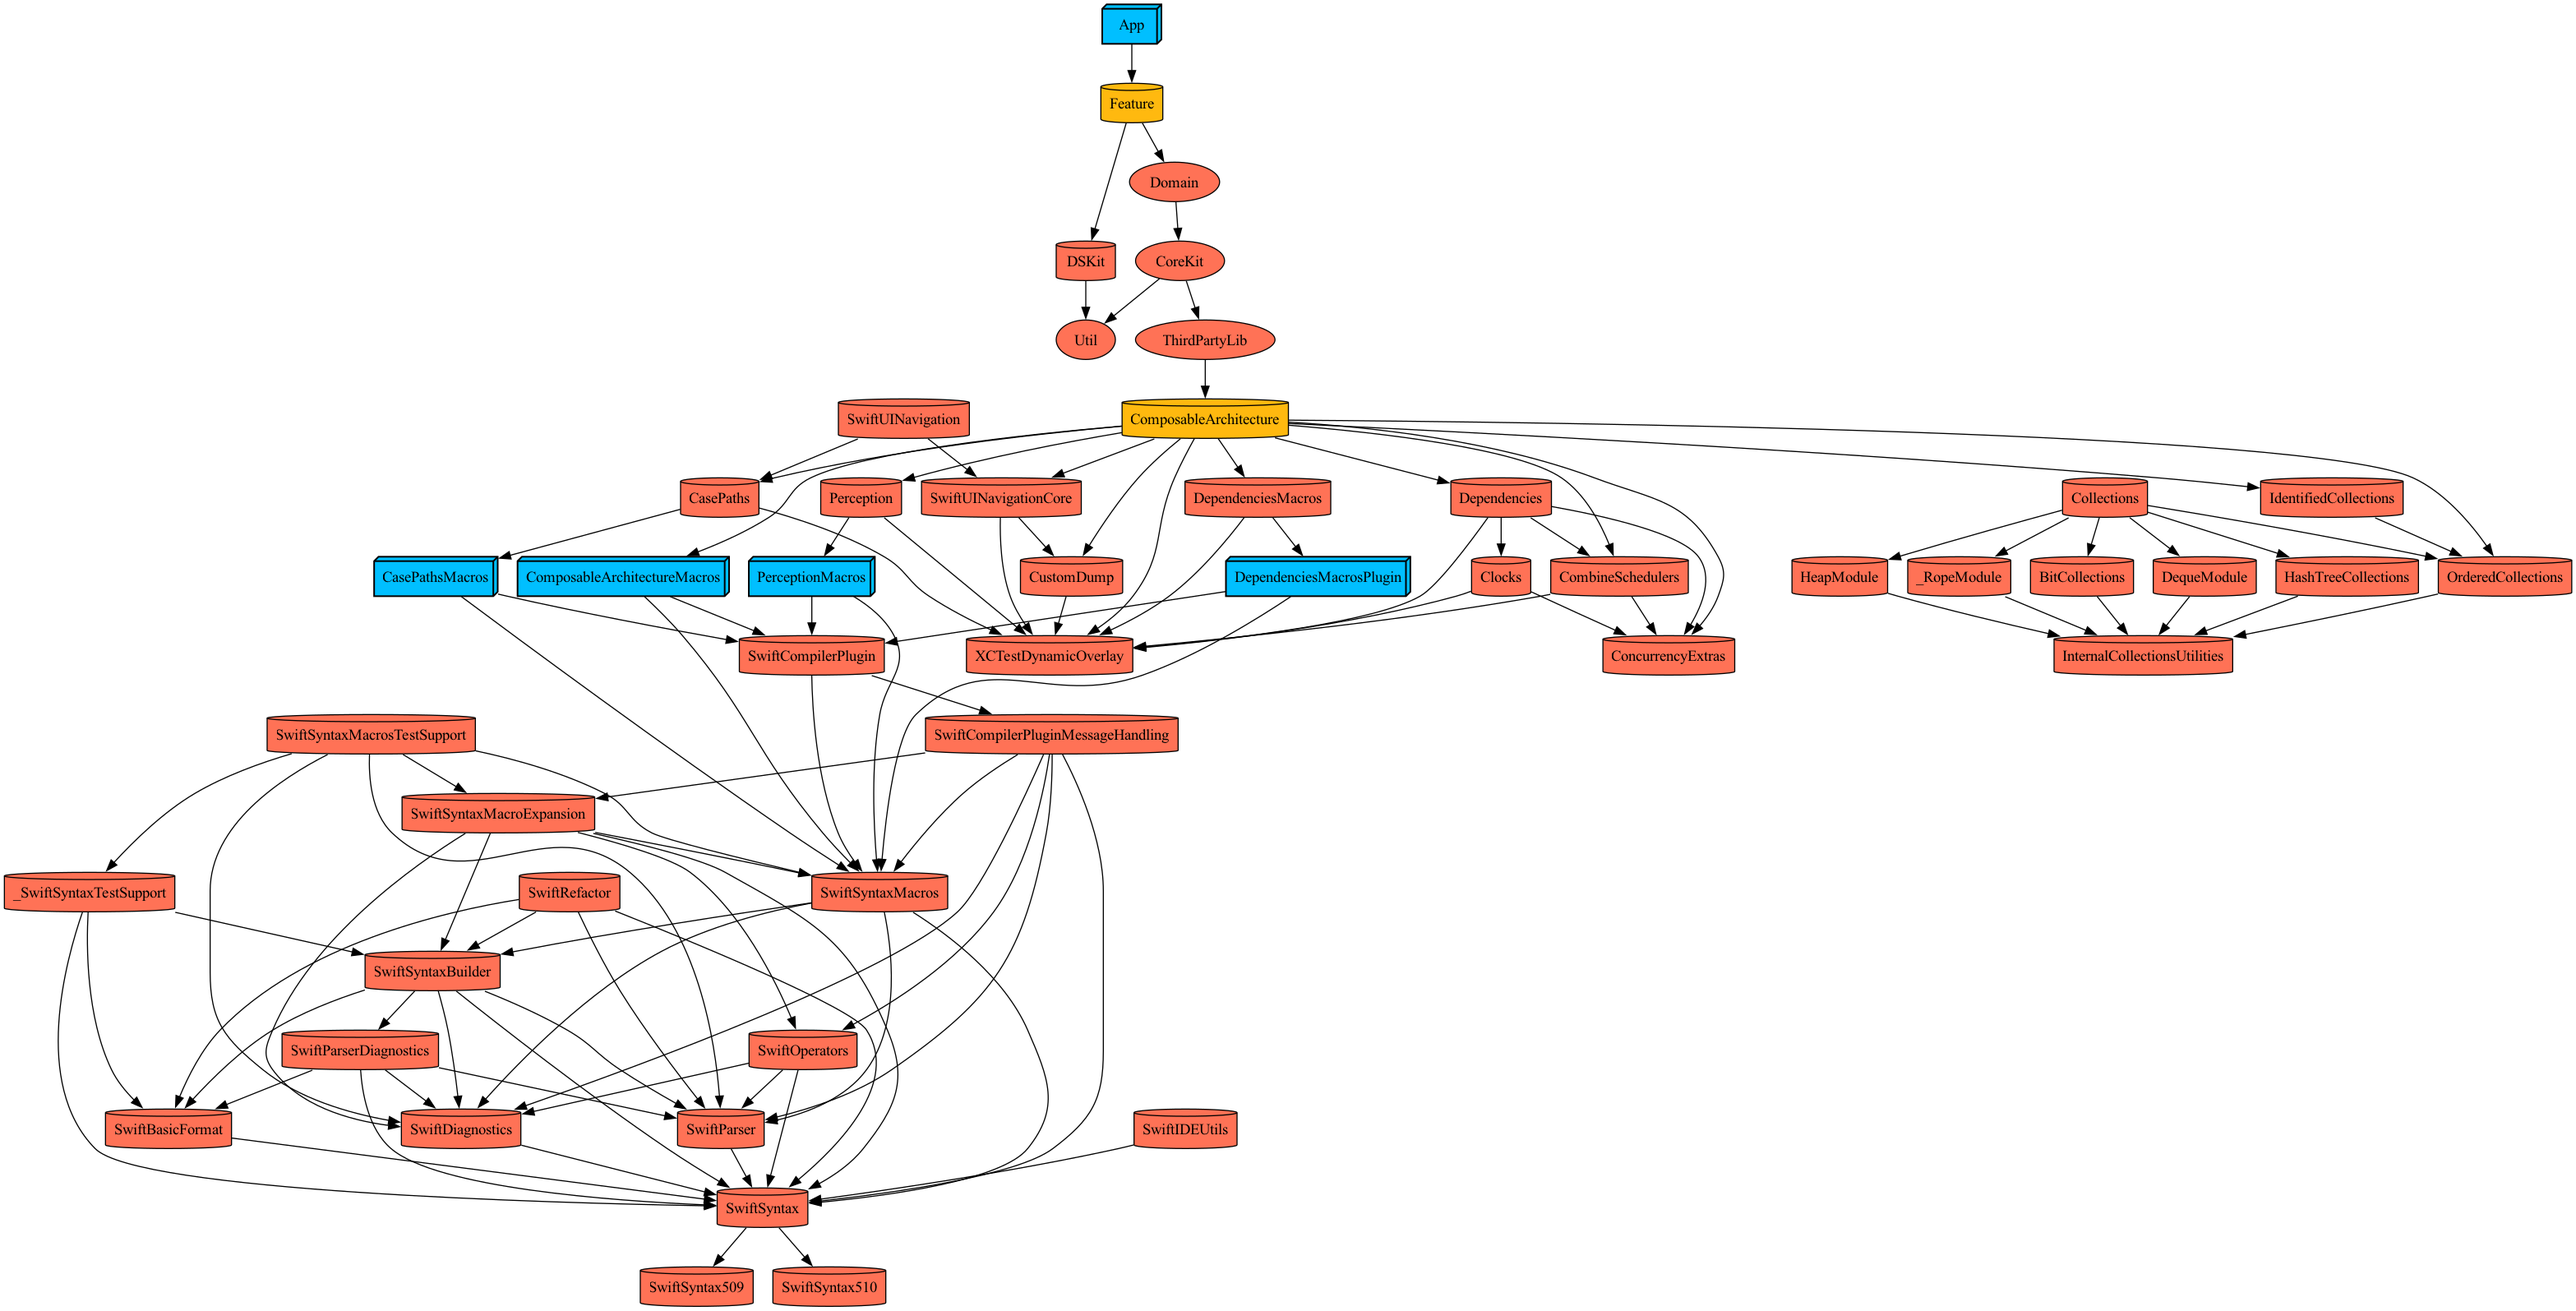
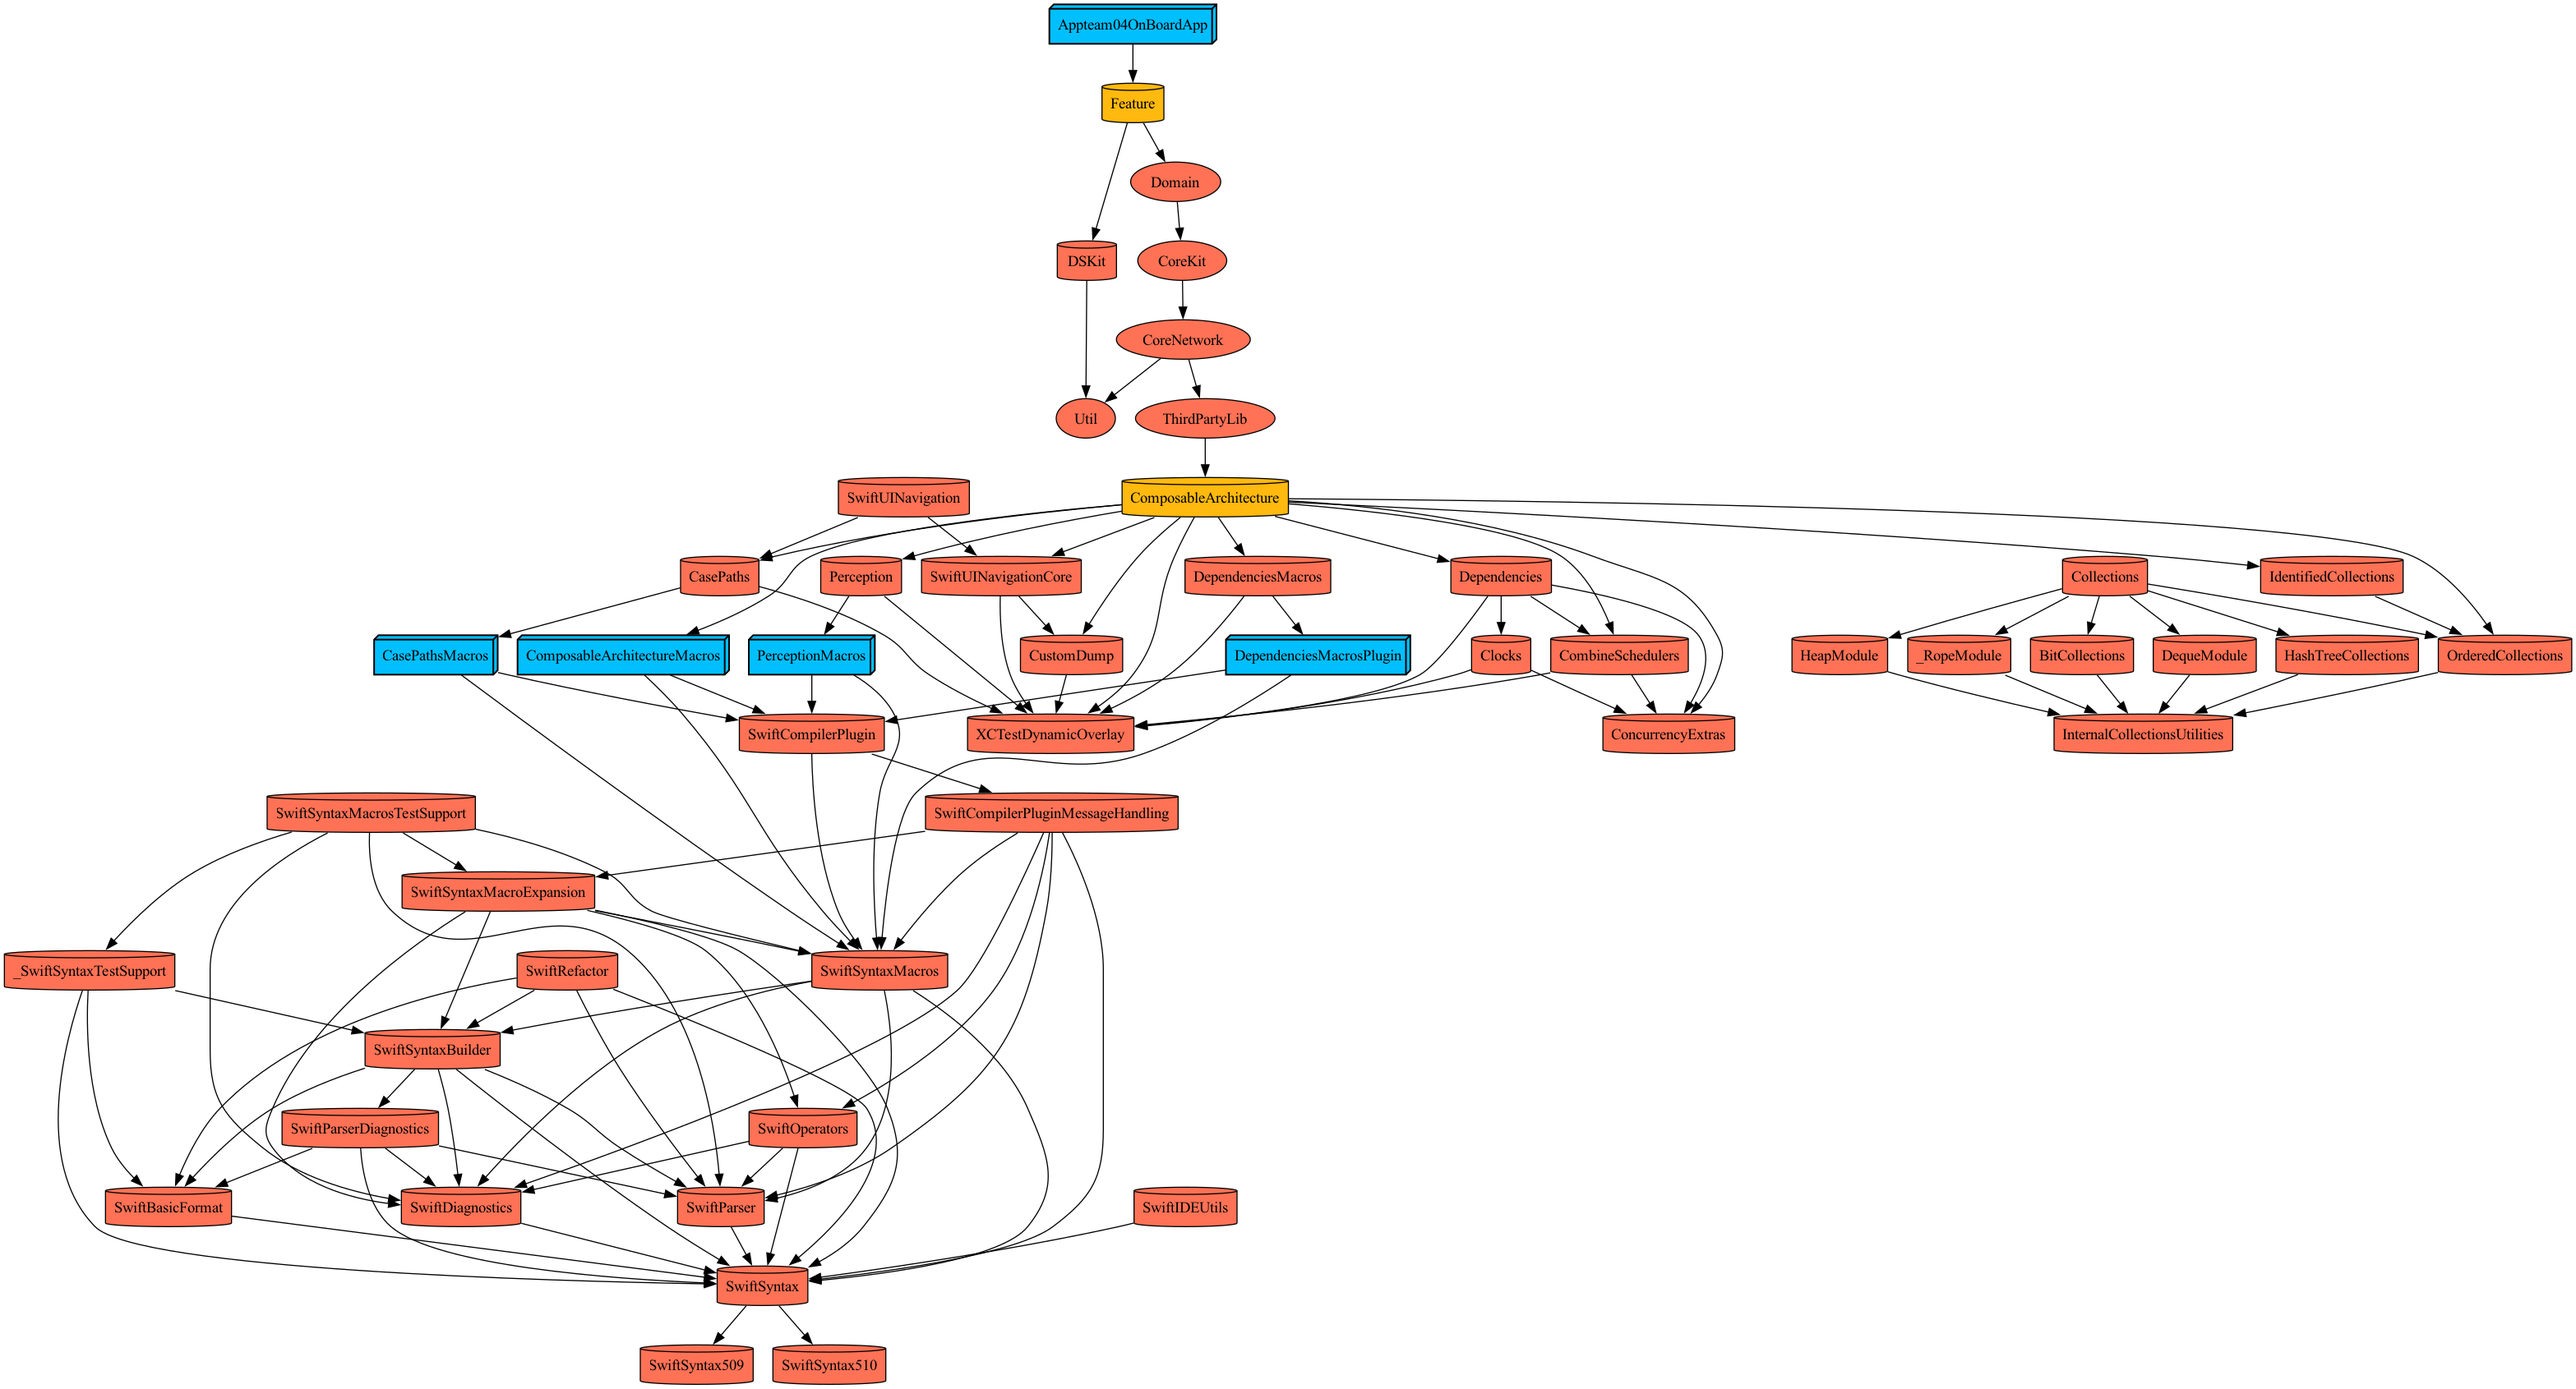
[feat] #3 CoreNetwork 모듈 추가

diff --git a/Projects/CoreKit/Project.swift b/Projects/CoreKit/Project.swift
@@ -1,6 +1,18 @@
 import ProjectDescription
 import ProjectDescriptionHelpers
 
+let networkTarget = Target.target(
+    name: "CoreNetwork",
+    destinations: .appDestinations,
+    product: .staticLibrary,
+    bundleId: "\(String.moduleBundleId(name: "CoreKit")).CoreNetwork",
+    deploymentTargets: .appMinimunTarget,
+    sources: ["Sources/Network/**"],
+    dependencies: [
+        .project(target: "ThirdPartyLib", path: .relativeToRoot("Projects/ThirdPartyLib")),
+        .project(target: "Util", path: .relativeToRoot("Projects/Util"))
+    ])
+
 let project = Project(
     name: "CoreKit",
     targets: [
@@ -15,9 +27,9 @@ let project = Project(
             ),
             sources: ["Sources/**"],
             dependencies: [
-                .project(target: "ThirdPartyLib", path: .relativeToRoot("Projects/ThirdPartyLib")),
-                .project(target: "Util", path: .relativeToRoot("Projects/Util"))
+                .target(networkTarget)
             ]
-        )
+        ),
+        networkTarget
     ]
 )
